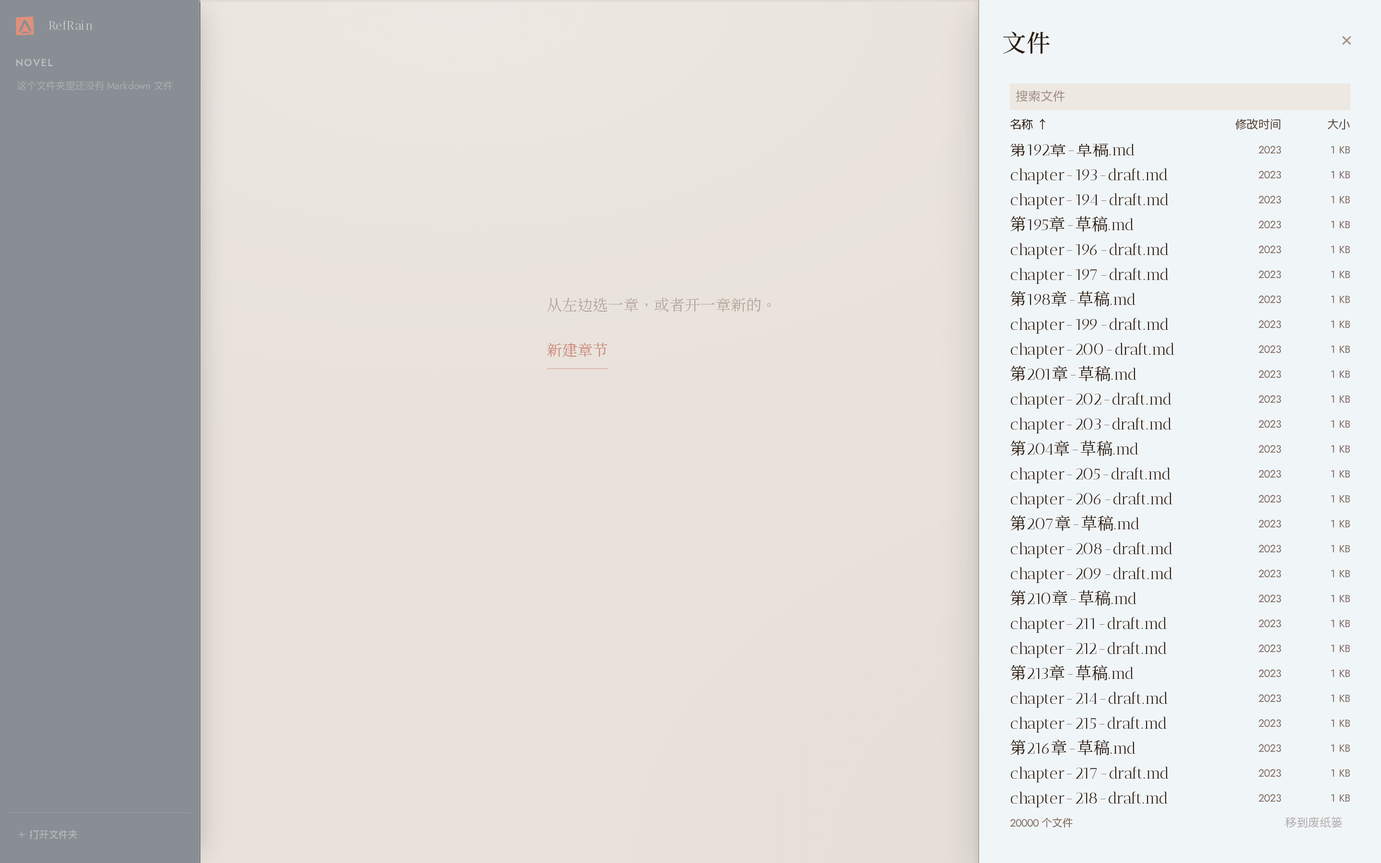
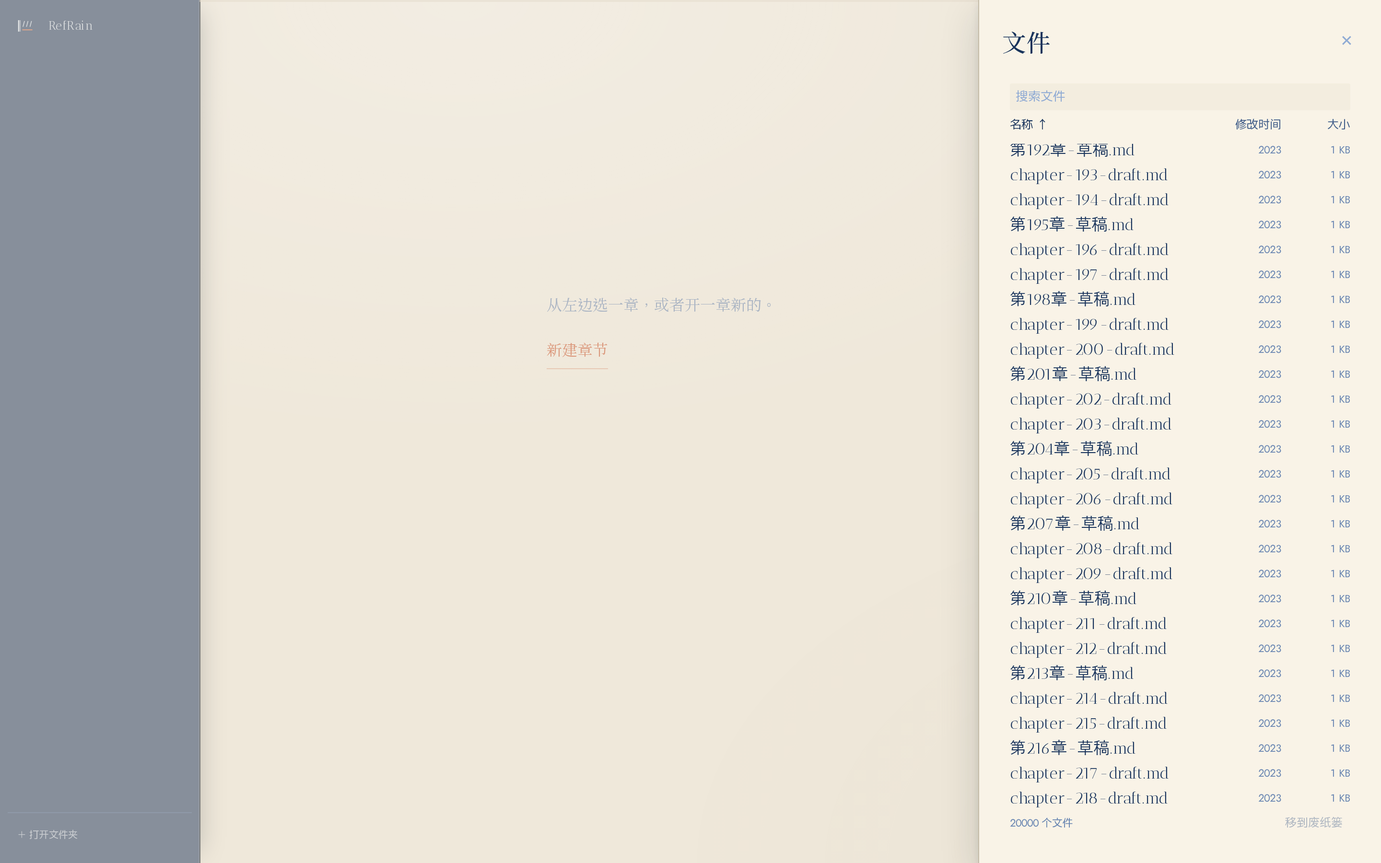
Make five checks describe the interface they check
Five verification scripts had been failing, and nobody knew. Their stub for
`loadWorkspace` returned an array of chapters, which is what the IPC channel
returned before roots became identified objects; the real one returns `{roots,
chapters}`. So the renderer read a chapter list off a property that did not
exist, drew an empty workspace, and every one of the five timed out waiting
for a manuscript element that was never going to appear.

I found them by running all seventeen render gates, suspected I had broken
them, and checked by stashing this release's work — they failed identically
before any of it. That is the more useful fact: a check that fails silently
reads as coverage while asserting nothing, and CI was carrying five of them.

Each stub now reproduces the real channel: a root with an id, chapters that
carry `rootId` and `role`, and `loadWorkspace` filtering both by the paths the
interface actually opened. A stub more permissive than the thing it stands in
for is the failure mode this project has already met once, when verify-open's
first version made the single-file root equal its own parent and passed with
the original defect injected.

release.yml now runs the invariant gates on the platform it ships. Source
fidelity most needs it: CRLF is a Windows fact, and a line-ending rule that
holds on a Linux runner proves nothing about the machine the installer is
built for. The composition gate runs there too, against the built bundle
rather than source.
[…]

diff --git a/apps/desktop/scripts/verify-multi-root.ts b/apps/desktop/scripts/verify-multi-root.ts
@@ -22,16 +22,25 @@ await page.addInitScript(`
   localStorage.clear();
   window.__calls = [];
   window.__openCount = 0;
+  const roots = [
+    { id: "r-a", path: "/a", name: "a", kind: "folder" },
+    { id: "r-b", path: "/b", name: "b", kind: "folder" },
+  ];
   const chapters = [
-    { id: "01.md", title: "01", text: "第一个根的正文。", root: "/a", path: "/a/01.md" },
-    { id: "01.md", title: "01", text: "第二个根的正文。", root: "/b", path: "/b/01.md" },
+    { id: "01.md", title: "01", text: "第一个根的正文。", root: "/a", rootId: "r-a",
+      role: "chapter", path: "/a/01.md" },
+    { id: "01.md", title: "01", text: "第二个根的正文。", root: "/b", rootId: "r-b",
+      role: "chapter", path: "/b/01.md" },
   ];
   window.refrain = {
     openProject: async () => ["/a", "/b"][window.__openCount++] ?? null,
     openFile: async () => null,
     createProject: async () => null,
     loadProject: async () => [],
-    loadWorkspace: async (roots) => chapters.filter((chapter) => roots.includes(chapter.root)),
+    loadWorkspace: async (open) => ({
+      roots: roots.filter((root) => open.includes(root.path)),
+      chapters: chapters.filter((chapter) => open.includes(chapter.root)),
+    }),
     saveChapter: async (root, title, text) => {
       window.__calls.push(["save", root, title, text]);
       return { ok: true, edits: [] };

diff --git a/apps/desktop/scripts/verify-revert.ts b/apps/desktop/scripts/verify-revert.ts
@@ -23,9 +23,10 @@ page.on("pageerror", (error) => pageErrors.push(error.message));
 await page.addInitScript(`
   localStorage.clear();
   window.__calls = [];
+  const root = { id: "r-work", path: "/work", name: "work", kind: "folder" };
   const chapter = {
-    id: "01.md", title: "01", root: "/work", path: "/work/01.md",
-    text: "甲。\\n\\n乙。\\n\\n丙。",
+    id: "01.md", title: "01", root: "/work", rootId: "r-work", role: "chapter",
+    path: "/work/01.md", text: "甲。\\n\\n乙。\\n\\n丙。",
   };
   const removed = {
     id: "e0-01.md:b1", kind: "remove", blockId: "01.md:b1",
@@ -36,7 +37,7 @@ await page.addInitScript(`
     openFile: async () => null,
     createProject: async () => null,
     loadProject: async () => [chapter],
-    loadWorkspace: async () => [chapter],
+    loadWorkspace: async () => ({ roots: [root], chapters: [chapter] }),
     saveChapter: async (root, chapterId, text) => {
       window.__calls.push(["save", root, chapterId, text]);
       return { ok: true, edits: [removed] };

diff --git a/apps/desktop/scripts/verify-run-refresh.ts b/apps/desktop/scripts/verify-run-refresh.ts
@@ -22,7 +22,9 @@ const pageErrors: string[] = [];
 page.on("pageerror", (error) => pageErrors.push(error.message));
 await page.addInitScript(`
   localStorage.clear();
-  const chapter = { id: "01.md", title: "01", text: "等待 Agent 的正文。", root: "/work", path: "/work/01.md" };
+  const root = { id: "r-work", path: "/work", name: "work", kind: "folder" };
+  const chapter = { id: "01.md", title: "01", text: "等待 Agent 的正文。", root: "/work",
+    rootId: "r-work", role: "chapter", path: "/work/01.md" };
   let queued = false;
   let sent = false;
   let reads = 0;
@@ -31,7 +33,7 @@ await page.addInitScript(`
     openFile: async () => null,
     createProject: async () => null,
     loadProject: async () => [chapter],
-    loadWorkspace: async () => [chapter],
+    loadWorkspace: async () => ({ roots: [root], chapters: [chapter] }),
     saveChapter: async () => ({ ok: true, edits: [] }),
     resolveConflict: async () => ({ ok: false, reason: "not expected" }),
     pathFor: () => "",

diff --git a/apps/desktop/scripts/verify-save-failure.ts b/apps/desktop/scripts/verify-save-failure.ts
@@ -22,13 +22,15 @@ const pageErrors: string[] = [];
 page.on("pageerror", (error) => pageErrors.push(error.message));
 await page.addInitScript(`
   localStorage.clear();
-  const chapter = { id: "01.md", title: "01", text: "盘上的正文。", root: "/work", path: "/work/01.md" };
+  const root = { id: "r-work", path: "/work", name: "work", kind: "folder" };
+  const chapter = { id: "01.md", title: "01", text: "盘上的正文。", root: "/work",
+    rootId: "r-work", role: "chapter", path: "/work/01.md" };
   window.refrain = {
     openProject: async () => "/work",
     openFile: async () => null,
     createProject: async () => null,
     loadProject: async () => [chapter],
-    loadWorkspace: async () => [chapter],
+    loadWorkspace: async () => ({ roots: [root], chapters: [chapter] }),
     saveChapter: async () => { throw new Error("simulated disk failure"); },
     resolveConflict: async () => ({ ok: false, reason: "not expected" }),
     pathFor: () => "",

diff --git a/apps/desktop/scripts/verify-conflict.ts b/apps/desktop/scripts/verify-conflict.ts
@@ -44,9 +44,13 @@ await page.addInitScript(`
   window.refrain = {
     openProject: async () => "/p",
     loadProject: async () => [{ id: "01.md", title: "01", text: ${JSON.stringify(MINE)} }],
-    loadWorkspace: async () => [
-      { id: "01.md", title: "01", text: ${JSON.stringify(MINE)}, root: "/p", path: "/p/01.md" },
-    ],
+    loadWorkspace: async () => ({
+      roots: [{ id: "r-p", path: "/p", name: "p", kind: "folder" }],
+      chapters: [
+        { id: "01.md", title: "01", text: ${JSON.stringify(MINE)}, root: "/p",
+          rootId: "r-p", role: "chapter", path: "/p/01.md" },
+      ],
+    }),
     createProject: async () => null, pathFor: () => "", resolveDrop: async () => null,
     fullscreen: async () => true,
     saveChapter: async (root, title, text) => {

diff --git a/SPEC.md b/SPEC.md
@@ -6,6 +6,7 @@
 
 ## Changelog
 
+- 2026-07-27 v0.1.5 — Source fidelity (§1.3, INV-5) and bounded alignment (INV-8). A manuscript opened and saved with no edit lost twelve bytes of a hundred and eighty-six: `trim()` on load deleted the ideographic indent, a blank line inside a fence split one code block into two, and rebuilding the file from block text alone flattened consecutive blank lines. Three copies of the block split — `core`, the main process, the renderer — converged on one authority in `roundtrip.ts`, which keeps the original bytes and each block's range in them. The renderer learned that composition exists: a save asked for mid-composition is deferred rather than writing an uncommitted candidate to disk. `edits.ts` and `review.ts` now share `align.ts`, which segments at unchanged runs and refuses to allocate past a table budget; a 40,000-block save that threw `RangeError: Out of memory` now completes, and 100,000 blocks complete in every mutation shape.
 - 2026-07-27 v0.1.5 — Rewrote every claim this file made about a thing that does not exist. §4 no longer lists ProseMirror as installed; §5.1 separates what is on disk from what is planned, and drops `ui/`, an empty package whose `exports` pointed at a file nobody had written; §5.2 marks rules 4, 5, 6, and 8 as commitments rather than descriptions; §11 stops saying the IME gate has not landed, and says instead that it has landed without a latch. Q9 settles the eight themes and how day and night relate, Q10 the three typeface slots and the faces that fill them, Q11 whether a subdirectory's Markdown is material or a chapter.
 - 2026-07-27 v0.1.5 — Author saves now advance the main process's canonical Text Head instead of rebuilding paragraph IDs from strings at each IPC call. Unchanged blocks keep their IDs across removals and later disjoint insertions. Restoring a removed block is an insertion Text Change inside a compensating Text Action; a vanished lineage boundary fails closed instead of appending the block elsewhere.
 - 2026-07-26 v0.1.3 — The file layer (§13) and display matching (§14). The Claude Code adapter relays its four reported token counts without deriving a price or a synthetic total. The Host reclaims launched runs, closing BUG-1. Q5 reopened because 289px was a measurement fault. `packages/fs` is the only package carrying Rust and a platform binary; releases build it on Windows x64, Linux x64, and macOS arm64/x64 before packaging. Motion and hairlines derive from the panel's refresh rate and scale factor. Q8 opened for the cross-volume trash failure measured on Linux.
@@ -513,6 +514,12 @@ Concentrate on `core`: property-based protocol round trips, anchor corpora, thre
 
 ### 9.1 White-box invariants
 
+**INV-5 · Source fidelity.** Bytes the author did not edit come back unchanged. Loading strips nothing; saving replaces only the ranges whose text actually changed and slices everything else out of the original. This is a lower bound, not lossless Markdown — a paragraph the author rewrites is rewritten — and it holds for the ideographic indent that opens a Chinese paragraph, blank lines inside a fence, consecutive blank lines, hard line breaks, CRLF, a missing final newline, and a byte-order mark. One authority decides where a block begins, because block identity is positional and two processes disagreeing about it renumber every block after the disagreement, silently detaching queued Proposals from the text they were written against. Gate: `verify:roundtrip`, over twenty corpora, asserting SHA-256 and block counts.
+
+**INV-8 · Bounded alignment.** No alignment allocates a table proportional to the whole manuscript. The cost of a save follows the size of the change, not the length of the book. A region past the table budget is reported as a wholesale replacement rather than aligned — refusing to allocate is the behaviour; attempting it is what took the application down. Gate: `verify:scale`, six mutation shapes up to 100,000 blocks.
+
+**INV-9 · Composition is not text.** Text under construction by an input method is a candidate. Nothing reads it back as the manuscript, nothing writes it to disk, and no redraw replaces the node the input method is composing into. A save requested mid-composition is deferred to `compositionend`, not refused: the author pressed Ctrl+S and meant it. Gate: `apps/desktop/scripts/verify-composition.ts`.
+
 Only a Text Action mutates the manuscript. Source Backup is never written. Exactly one current Text Head. Run dispatch and Revision binding are atomic. A dispatched run's baseline never changes. Result Artifacts are complete, atomic, verifiable. No replacement produces no Proposal. Proposals are immutable. Disjoint Proposals commute. Decision Batches are atomic. No automatic merge path exists. Runtime Binding is never overridden per run. Deleting a Result Artifact changes neither the manuscript nor a frozen Proposal.
 
 ### 9.2 Black-box paths
@@ -526,6 +533,16 @@ Install, launch, crash recovery. Continuous CJK input and IME composition. Full 
 Thresholds are set from measurements on real long-form Chinese text, not invented in advance. Measurement must cover: input latency and IME stability; large pastes and multi-site Decision Batches; indexes at 10^5 Text Changes; selective undo of the first action after 10,000 disjoint ones; startup and restore time; resident memory and disk growth; a 100-run result list with on-demand loading; manuscript responsiveness while parsing is queued.
 
 The real bottleneck is architecture, not arithmetic: chapter granularity, on-demand disk reads, and keeping heavy work off the main thread.
+
+Measured, one word changed in a manuscript of n blocks, before and after `align.ts` (v0.1.5):
+
+| Blocks | Before | After |
+|---:|---:|---:|
+| 20,000 | 5,219 ms | 5.5 ms |
+| 40,000 | `RangeError: Out of memory` | 7.4 ms |
+| 100,000 | `RangeError: Out of memory` | 25.3 ms |
+
+The crash was not a function of the edit. The table is allocated before anything is compared, so correcting one character cost what rewriting the book cost.
 
 ---
 

diff --git a/README.md b/README.md
@@ -20,7 +20,9 @@ Three axioms, in priority order:
 
 - **The author decides.** Agent output cannot touch the manuscript. It becomes an immutable Proposal; only a Text Action approved by a human changes the file.
 - **Local and private outrank convenience.** The application has no account, API key, telemetry, updater, or outbound request. Manuscripts and collaboration history stay in the project folder.
-- **Performance is measured on the interaction path.** Rust keeps large file indexes out of the renderer, the list only mounts visible rows, and the diff engine handles 100,000-block manuscripts without a quadratic table.
+- **Your bytes survive.** Open a file, save it, and the bytes you did not edit are the bytes you had — the ideographic indent that opens a Chinese paragraph, the blank line inside a fenced block, the ones you left between paragraphs. A gate over twenty corpora fails the build if that stops being true.
+- **Typing Chinese waits for the input method.** A save requested mid-composition happens when the word is finished, not while it is still pinyin.
+- **Performance is measured on the interaction path.** Rust keeps large file indexes out of the renderer, the list only mounts visible rows, and saving a 100,000-block manuscript costs what the change costs rather than what the book costs.
 - **Nothing is trapped.** The manuscript is plain Markdown. Agent rosters, requests, results, and memos use documented files that remain readable and editable without RefRain.
 - **Regret has several honest forms.** Reject a Slice before merge, undo ordinary typing, selectively compensate an older Text Action without replaying later history, or inspect both versions when another editor changed the file.
 - **Several agents may disagree on one baseline.** Broadcast one request, keep every answer as a separate Proposal, compare competitors, and merge only the one whose wording survives review.
@@ -114,7 +116,10 @@ Green assertions are not correctness. Beyond the unit tests:
 
 - `bun run verify:no-network` — no outbound request reaches the application process
 - `bun run verify:trash-only` — no permanent delete exists at any layer
+- `bun run verify:roundtrip` — twenty corpora load and save byte for byte, block count included
+- `bun run verify:scale` — six mutation shapes up to 100,000 blocks stay inside their budget
 - `bun run verify:gate` — the type gate is provably capable of failing
+- `apps/desktop/scripts/verify-composition.ts` — no save lands mid-composition, and an indent renders as an indent
 - `apps/desktop/scripts/verify-files.ts` — the file browser is measured as rendered: a windowed list, columns whose headers sit over their own values, a hairline that is one device pixel
 - `apps/desktop/scripts/verify-grid.ts` — ruled lines land under the glyphs, not through them
 - `e2e/ime` — Windows + Microsoft Pinyin, four shells, real `SendInput` typing. Required before any Electron upgrade.
@@ -125,6 +130,7 @@ Green assertions are not correctness. Beyond the unit tests:
 |---|---|
 | [`SPEC.md`](SPEC.md) | The authoritative design baseline. When the code disagrees, the code changes. |
 | [`AGENTS.md`](AGENTS.md) | How to work in this repository: invariants, style, gates. |
+| [`ROADMAP.md`](ROADMAP.md) | What shipped, what is known broken, and what comes next. |
 | [`docs/TEST-MATRIX.md`](docs/TEST-MATRIX.md) | Every test that exists and every one that should. |
 | [`docs/project-layout.md`](docs/project-layout.md) | The portable project folder, ownership, and write permissions. |
 | [`docs/flow.md`](docs/flow.md) | The complete dispatch, review, decision, merge, and reply path. |

diff --git a/AGENTS.md b/AGENTS.md
@@ -38,6 +38,12 @@ Violating any of these is a bug, not a style preference.
 3. **No billing math.** Never display prices or cost estimates. Report token counts exactly as the harness reports them, tagged `actual` / `estimated` / `unknown`. When unavailable, show unknown.
 4. **Source Backup is never written to.** Every mutating call in `packages/fs` passes through `Guard::admit`, which refuses it along with any path outside a workspace root. `bun run verify:trash-only` fails the build if a route around the guard appears.
 
+4a. **Bytes the author did not edit come back unchanged.** Loading strips nothing; saving replaces only the ranges whose text actually changed and slices the rest out of the original. A lower bound, not lossless Markdown. One authority — `packages/core/src/roundtrip.ts` — decides where a block begins, because block identity is positional and two processes disagreeing about it detach every queued Proposal from the text it was written against. `bun run verify:roundtrip` fails the build over twenty corpora.
+
+4c. **Text under construction by an input method is not text.** Nothing reads a composition back as the manuscript, writes it to disk, or replaces the node the input method is composing into. A save asked for mid-composition is deferred to `compositionend`, not refused.
+
+4d. **No alignment allocates a table proportional to the whole manuscript.** Saving costs what the change costs. A region past the budget in `packages/core/src/align.ts` is reported as a wholesale replacement rather than aligned; refusing to allocate is the behaviour, and attempting it is what took the application down at 40,000 blocks.
+
 4b. **Delete goes to the system trash.** There is no permanent delete at any layer — not in Rust, not across N-API, not as an IPC channel. When the trash is unavailable the operation fails and the file stays; falling back to `remove_file` would turn an inconvenience into the one loss this application promises never to cause.
 5. **`packages/core` has no DOM and near-zero dependencies.** `packages/agent` is the only surface touching a harness; protocol drift stops there. `packages/fs` is the only surface holding a platform binary; native and OS-specific risk stops there. `apps/desktop` holds windowing and packaging only.
 6. **The editor core is framework-free.** The manuscript is a `contenteditable` holding paragraph elements, driven directly rather than through Svelte's reactivity — no framework code sits on the IME path. ProseMirror goes underneath in v0.2, under the same rule.
@@ -60,6 +66,18 @@ Three gates, all green or the PR does not land:
 
 ```bash
 bun run fmt:check && bun run check && bun test
+```
+
+The invariants have gates of their own, and every one of them was proved to
+bite by injecting the defect it names before it was wired into CI. A gate that
+cannot fail is worse than no gate:
+
+```bash
+bun run verify:roundtrip     # bytes survive a load and a save
+bun run verify:scale         # a long manuscript saves in bounded memory
+bun run verify:no-network    # no outbound request reaches the app process
+bun run verify:trash-only    # no permanent delete exists at any layer
+bun run verify:gates-run     # every verification surface has a path that runs it
 ```
 
 Most test effort belongs in `packages/core`. Adapters use contract tests against a real session and run (SPEC §6.5). The native file layer has its own suite — `cd packages/fs && cargo test` — which runs against the real filesystem of whichever platform it is on, because a Windows path rule and a macOS trash binding cannot be tested any other way.

diff --git a/README.zh-CN.md b/README.zh-CN.md
@@ -20,7 +20,9 @@
 
 - **用户掌握最终决定。** Agent 输出不能直接碰正文，只能成为不可变的提案；文件变化必须由人批准的 Text Action 完成。
 - **本地与隐私优先于便利。** 应用没有账号、API key、遥测、自动更新或外部请求。稿件与协作历史都留在项目文件夹里。
-- **性能针对真实交互路径。** Rust 把大型文件索引留在渲染层之外，列表只挂载可见行；diff 引擎处理十万块稿件时不再建立二次方表格。
+- **你的字节能活下来。** 打开文件再保存，你没编辑过的字节还是原来那些——中文段落开头的全角缩进、围栏代码块里的空行、你留在段落之间的那几行空白。一道覆盖二十份语料的门禁负责在这件事不成立时让构建失败。
+- **打中文时会等输入法。** 拼到一半按保存，落盘发生在词打完之后，而不是它还是拼音的时候。
+- **性能针对真实交互路径。** Rust 把大型文件索引留在渲染层之外，列表只挂载可见行；保存十万块的稿子，代价取决于改动多大，而不是书有多长。
 - **修改和迁移都简单。** 正文是普通 Markdown；Agent 名册、请求、结果和 memo 都有公开的磁盘格式，不运行 RefRain 也能读、能改、能搬走。
 - **反悔不只剩整篇撤回。** 合并前可驳回单个 Slice，普通输入可撤销，也可用补偿行动单独撤回旧 Text Action；外部编辑冲突会同时展示两个版本。
 - **多个 Agent 可以在同一基线上各自作答。** 一次派发保留每份独立提案；竞争答案不会暗中决胜，只有用户选中的措辞能进入正文。
@@ -114,7 +116,10 @@ cd apps/desktop && ./make.sh && bun x electron-builder --win --x64
 
 - `bun run verify:no-network` —— 没有外部请求能到达应用进程
 - `bun run verify:trash-only` —— 任何一层都不存在永久删除
+- `bun run verify:roundtrip` —— 二十份语料载入再保存，逐字节相同，块数也一并核对
+- `bun run verify:scale` —— 六种改动形态、最多十万块，都在预算内完成
 - `bun run verify:gate` —— 类型门禁确实会失败
+- `apps/desktop/scripts/verify-composition.ts` —— 组合期没有任何保存落盘，缩进渲染成缩进
 - `apps/desktop/scripts/verify-files.ts` —— 按渲染后的实际几何测量文件浏览器：虚拟列表、表头落在自己数据的正上方、发丝线是一个物理像素
 - `apps/desktop/scripts/verify-grid.ts` —— 界栏落在字下面，不穿过字
 - `e2e/ime` —— Windows + 微软拼音，四种外壳，真实 `SendInput` 输入。升级 Electron 前必跑。
@@ -125,6 +130,7 @@ cd apps/desktop && ./make.sh && bun x electron-builder --win --x64
 |---|---|
 | [`SPEC.md`](SPEC.md) | 权威设计基线。代码与它冲突时，改代码。 |
 | [`AGENTS.md`](AGENTS.md) | 在这个仓库里怎么干活：不变量、风格、门禁。 |
+| [`ROADMAP.zh-CN.md`](ROADMAP.zh-CN.md) | 已发布什么、已知的边界在哪、接下来做什么。 |
 | [`docs/TEST-MATRIX.md`](docs/TEST-MATRIX.md) | 已有的每一项测试，和应该有的每一项。 |
 | [`docs/project-layout.md`](docs/project-layout.md) | 可搬移的项目目录、文件归属与写入权限。 |
 | [`docs/flow.md`](docs/flow.md) | 派发、审阅、裁决、合并与回传的完整路径。 |

diff --git a/ROADMAP.md b/ROADMAP.md
@@ -4,7 +4,36 @@
 
 ---
 
-## Shipped — v0.1.3
+## Shipped — v0.1.5
+
+Windows x64. One author, several local folders, any harness, chapterised
+Markdown.
+
+This release is about the manuscript surviving contact with the application.
+
+**Bytes you did not write stay as you left them.** Opening a file and saving it
+with no edit at all used to lose bytes: the ideographic indent that opens a
+Chinese paragraph was deleted on load, a fenced code block was cut in two by
+the blank line inside it, and consecutive blank lines collapsed. A file now
+parses into blocks that remember where they sit in the original, and saving
+replaces only the ranges whose text actually changed. This is a lower bound,
+not lossless Markdown — a paragraph you rewrite is rewritten — and it is
+enforced by `verify:roundtrip` over twenty corpora.
+
+**Typing Chinese waits for the input method.** The renderer had no notion of
+composition, so Ctrl+S mid-word wrote half-formed pinyin to disk as prose, and
+a redraw arriving during composition tore out the node the input method was
+composing into. A save asked for mid-composition is now deferred, not refused.
+The surface also stopped collapsing whitespace, so an indent is visible as an
+indent.
+
+**Saving a long book costs what the change costs.** A 40,000-block manuscript
+threw `RangeError: Out of memory` on any save, because the alignment table is
+allocated before anything is compared. Correcting one character in a 20,000
+block manuscript took 5.2 seconds; it now takes 5.5 milliseconds, and 100,000
+blocks complete in every mutation shape that used to crash.
+
+## Shipped earlier — v0.1.3
 
 Windows x64, Linux x64, macOS arm64 and x64. One author, several local folders,
 any harness, chapterised Markdown.
@@ -87,8 +116,10 @@ session, not a claim in a table.
 **Selective undo at scale.** A compensating action against the first of 10,000
 disjoint edits, without replaying the history.
 
-**A diff that scales.** The current LCS allocates an n×m matrix, which a
-100,000-block manuscript cannot afford. Hirschberg or Myers.
+**Lossless Markdown, not only the lower bound.** v0.1.5 guarantees that bytes
+you did not edit come back unchanged. The stronger promise — that a paragraph
+you *did* rewrite also round-trips through every Markdown construct — needs a
+real document model, and belongs with the editor core rather than before it.
 
 ## Not planned
 
